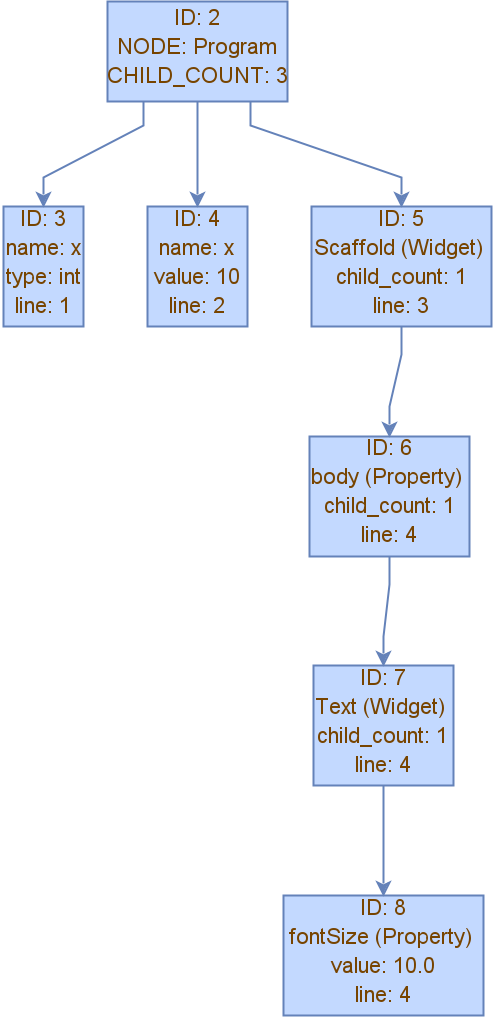
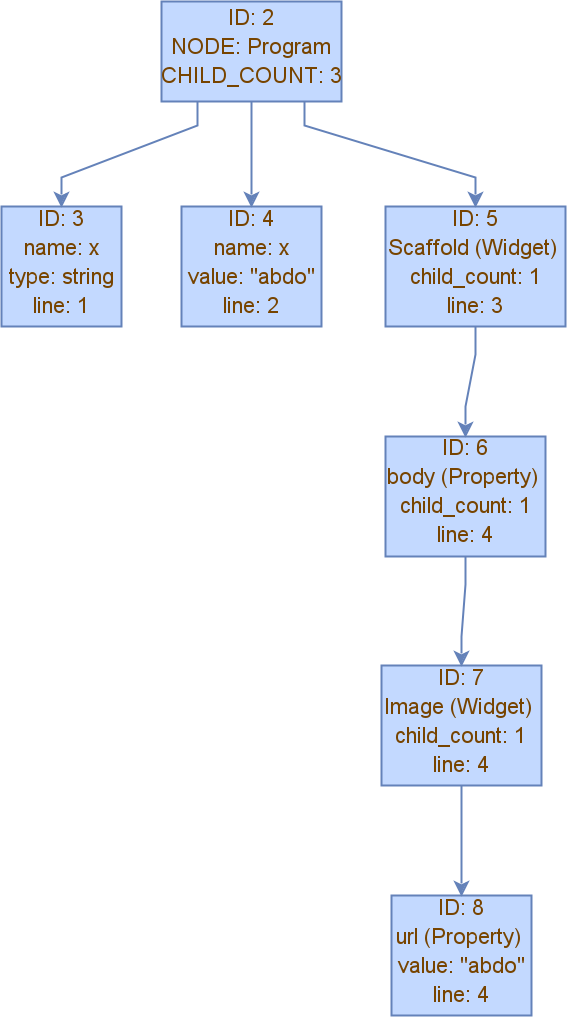
vars for 13 14 7 9

Changed region(s): [[0.5444, 0.1521, 0.998, 1.0], [0.2117, 0.0, 0.6956, 0.3346], [0.0, 0.1521, 0.2419, 0.3346]]

diff --git a/src/visitors/AntlrToProperty.java b/src/visitors/AntlrToProperty.java
@@ -353,7 +353,33 @@ public class AntlrToProperty extends DartParserBaseVisitor<Property> {
     public Property visitEdgeInsetsSymetricHorizontal(DartParser.EdgeInsetsSymetricHorizontalContext ctx) {
         Token idToken = ctx.HORIZONTAL().getSymbol();
         int line = idToken.getLine();
-        return new Horizontal(Double.parseDouble(ctx.getChild(2).getText()), Integer.toString(line));
+        String value = ctx.getChild(2).getText();
+        if (ctx.IDENTIFIER() != null) {
+            //get the symbol table
+            SymbolTable instance = SymbolTable.getInstance();
+            //get the var name from the parse tree
+            String var = ctx.IDENTIFIER().getText();
+
+            //TODO if the symbol is null there is a semantic error, the var wasn't declared
+            //search for the var in the st
+            Symbol symbol = instance.get(var);
+
+            //get the type
+            String type = symbol.getType();
+
+            if (type.equals("int")) {
+                Integer intValue = (Integer) symbol.getValue();
+                return new WidthProperty(intValue, String.valueOf(line));
+            }
+            else if (type.equals("double")) {
+                Double doubleValue = (Double) symbol.getValue();
+                return new WidthProperty(doubleValue, String.valueOf(line));
+            }
+            else {
+                //type mismatch
+            }
+        }
+        return new Horizontal(Double.parseDouble(value), Integer.toString(line));
     }
 
     //done
@@ -361,6 +387,32 @@ public class AntlrToProperty extends DartParserBaseVisitor<Property> {
     public Property visitEdgeInsetsSymetricVertical(DartParser.EdgeInsetsSymetricVerticalContext ctx) {
         Token idToken = ctx.VERTICAL().getSymbol();
         int line = idToken.getLine();
+
+        if (ctx.IDENTIFIER() != null) {
+            //get the symbol table
+            SymbolTable instance = SymbolTable.getInstance();
+            //get the var name from the parse tree
+            String var = ctx.IDENTIFIER().getText();
+
+            //TODO if the symbol is null there is a semantic error, the var wasn't declared
+            //search for the var in the st
+            Symbol symbol = instance.get(var);
+
+            //get the type
+            String type = symbol.getType();
+
+            if (type.equals("int")) {
+                Integer intValue = (Integer) symbol.getValue();
+                return new WidthProperty(intValue, String.valueOf(line));
+            }
+            else if (type.equals("double")) {
+                Double doubleValue = (Double) symbol.getValue();
+                return new WidthProperty(doubleValue, String.valueOf(line));
+            }
+            else {
+                //type mismatch
+            }
+        }
         return new Vertical(Double.parseDouble(ctx.getChild(2).getText()), Integer.toString(line));
     }
 
@@ -370,6 +422,28 @@ public class AntlrToProperty extends DartParserBaseVisitor<Property> {
         Token idToken = ctx.URL().getSymbol();
         int line = idToken.getLine();
         String url = ctx.getChild(2).getText();
+
+        if (ctx.IDENTIFIER() != null) {
+            //get the symbol table
+            SymbolTable instance = SymbolTable.getInstance();
+            //get the var name from the parse tree
+            String var = ctx.IDENTIFIER().getText();
+
+            //TODO if the symbol is null there is a semantic error, the var wasn't declared
+            //search for the var in the st
+            Symbol symbol = instance.get(var);
+
+            //get the type
+            String type = symbol.getType();
+
+            if (type.equals("string")) {
+                String stringValue = (String) symbol.getValue();
+                return new UrlProperty(stringValue, Integer.toString(line));
+            }
+            else {
+                //type mismatch
+            }
+        }
         return new UrlProperty(url, Integer.toString(line));
     }
 
@@ -532,7 +606,32 @@ public class AntlrToProperty extends DartParserBaseVisitor<Property> {
     public Property visitWidthProperty(DartParser.WidthPropertyContext ctx) {
         String value = ctx.getChild(2).getText();
         String lnNumber = String.valueOf(ctx.WIDTH().getSymbol().getLine());
+        //value from variable
+        if (ctx.IDENTIFIER() != null) {
+            //get the symbol table
+            SymbolTable instance = SymbolTable.getInstance();
+            //get the var name from the parse tree
+            String var = ctx.IDENTIFIER().getText();
 
+            //TODO if the symbol is null there is a semantic error, the var wasn't declared
+            //search for the var in the st
+            Symbol symbol = instance.get(var);
+
+            //get the type
+            String type = symbol.getType();
+
+            if (type.equals("int")) {
+                Integer intValue = (Integer) symbol.getValue();
+                return new WidthProperty(intValue, lnNumber);
+            }
+            else if (type.equals("double")) {
+                Double doubleValue = (Double) symbol.getValue();
+                return new WidthProperty(doubleValue, lnNumber);
+            }
+            else {
+                //type mismatch
+            }
+        }
         return new WidthProperty(Double.parseDouble(value), lnNumber);
     }
 
@@ -540,6 +639,32 @@ public class AntlrToProperty extends DartParserBaseVisitor<Property> {
     public Property visitHeightProperty(DartParser.HeightPropertyContext ctx) {
         String value = ctx.getChild(2).getText();
         String lnNumber = String.valueOf(ctx.HEIGHT().getSymbol().getLine());
+
+        if (ctx.IDENTIFIER() != null) {
+            //get the symbol table
+            SymbolTable instance = SymbolTable.getInstance();
+            //get the var name from the parse tree
+            String var = ctx.IDENTIFIER().getText();
+
+            //TODO if the symbol is null there is a semantic error, the var wasn't declared
+            //search for the var in the st
+            Symbol symbol = instance.get(var);
+
+            //get the type
+            String type = symbol.getType();
+
+            if (type.equals("int")) {
+                Integer intValue = (Integer) symbol.getValue();
+                return new HeightProperty(intValue, lnNumber);
+            }
+            else if (type.equals("double")) {
+                Double doubleValue = (Double) symbol.getValue();
+                return new HeightProperty(doubleValue, lnNumber);
+            }
+            else {
+                //type mismatch
+            }
+        }
 
         return new HeightProperty(Double.parseDouble(value), lnNumber);
     }

diff --git a/src/App/CompilerApp.java b/src/App/CompilerApp.java
@@ -29,7 +29,7 @@ import java.io.IOException;
 public class CompilerApp {
 
     public static void main(String[] args) throws IOException {
-        String fileName = "tests/test2.txt";
+        String fileName = "tests/dump.txt";
         DartParser parser = getParser(fileName);
 
         ParseTree antlrAST = parser.prog();
